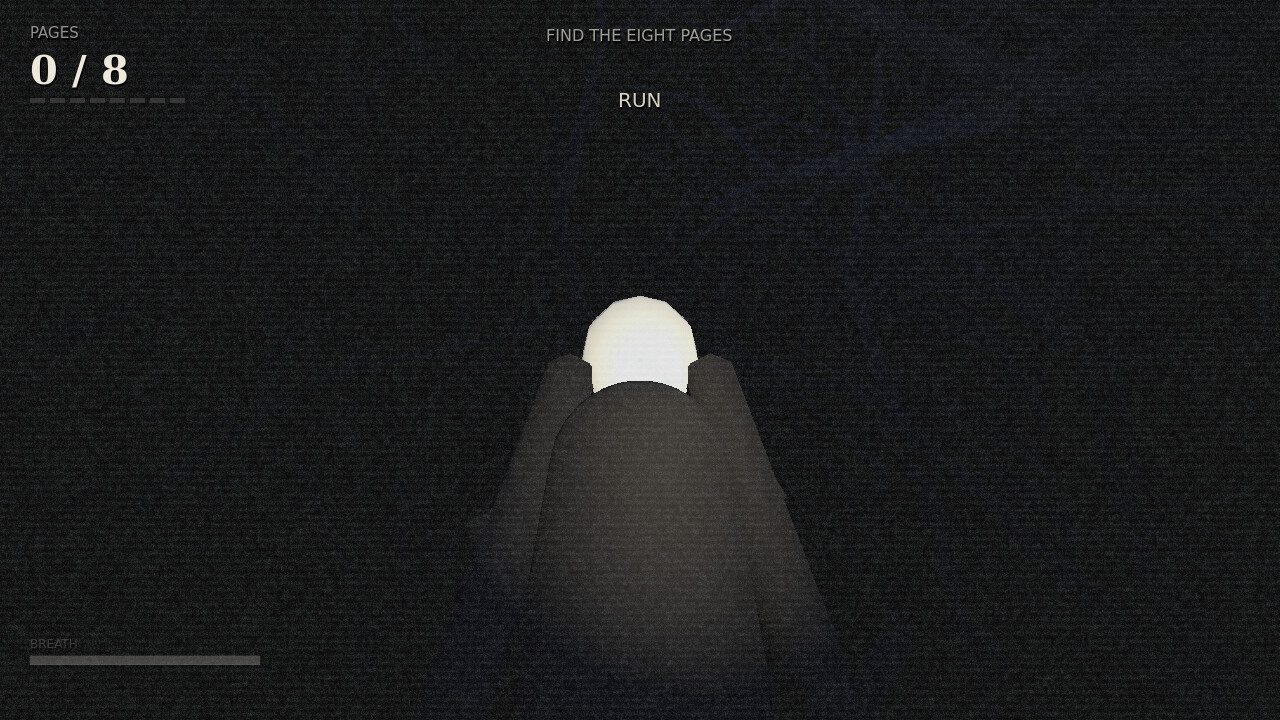
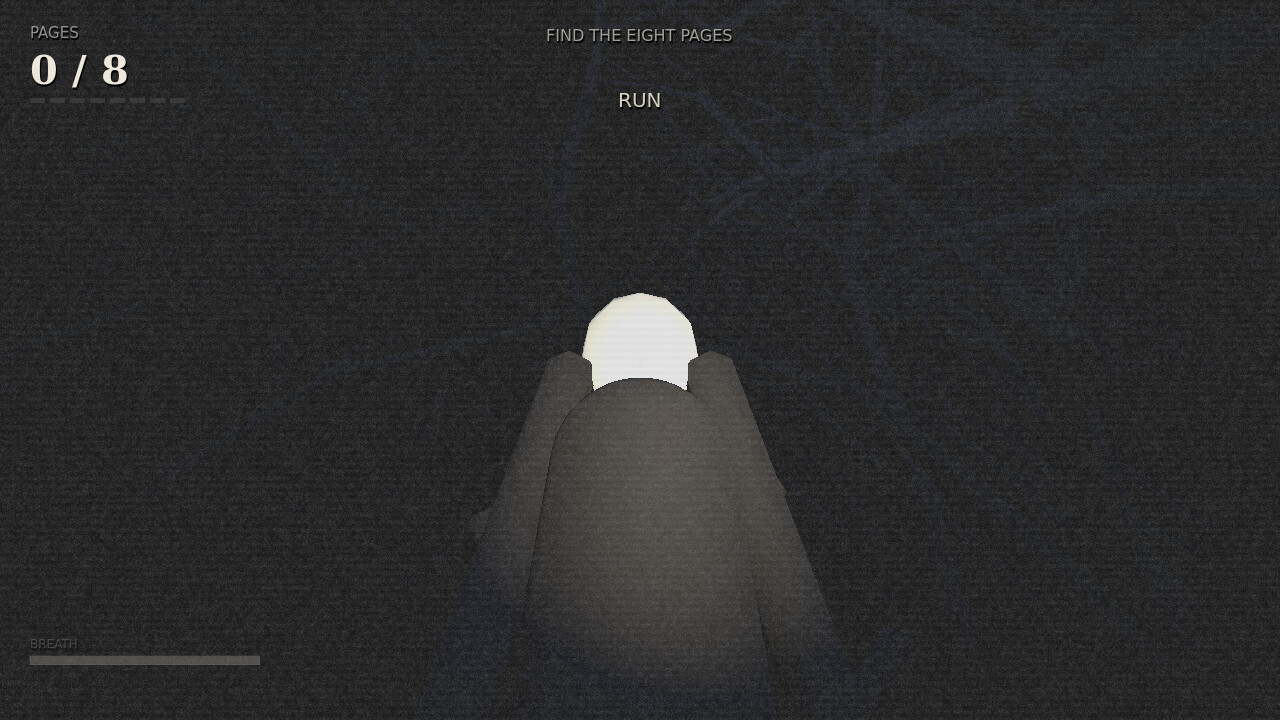
screenshots: re-render the whole set (gate, fence, cloth page, concrete detail, mobile)

Changed region(s): [[0.0, 0.0, 1.0, 1.0]]

diff --git a/tools/gen_concrete.py b/tools/gen_concrete.py
@@ -210,20 +210,23 @@ def make_concrete(size=SIZE):
     micro = fbm(h, w, 5, 360, 0.50, seed=7106)
     fine = fbm(h, w, 7, 28, 0.55, seed=7107)
 
+    # Aggregate, not blotches. Real concrete varies mostly at the aggregate
+    # scale inside a 1.2 m tile; the low-frequency terms used to dominate and
+    # made the wall look like camouflage once the contrast was stretched.
     tone = (0.335
-            + (macro - 0.5) * 0.185
-            + (mid - 0.5) * 0.075
-            + (cement - 0.5) * 0.045
-            + (aggregate - 0.5) * 0.030
-            + (micro - 0.5) * 0.020)
+            + (macro - 0.5) * 0.080
+            + (mid - 0.5) * 0.045
+            + (cement - 0.5) * 0.038
+            + (aggregate - 0.5) * 0.080
+            + (micro - 0.5) * 0.045)
     albedo = np.stack([tone * 1.012, tone * 0.998, tone * 0.966], axis=-1)
     del tone
 
-    pale = curve(patch, 0.56, 0.83) * 0.42
+    pale = curve(patch, 0.56, 0.83) * 0.28
     albedo = overlay(albedo, (0.445, 0.438, 0.420), pale)
     del pale
 
-    grime = curve(1.0 - patch, 0.55, 0.84) * 0.34
+    grime = curve(1.0 - patch, 0.55, 0.84) * 0.24
     albedo = overlay(albedo, (0.255, 0.258, 0.255), grime)
     del grime
 
@@ -231,10 +234,10 @@ def make_concrete(size=SIZE):
     albedo = overlay(albedo, (0.375, 0.370, 0.356), mottle)
     del mottle
 
-    grains = curve(aggregate, 0.58, 0.79) * 0.30
+    grains = curve(aggregate, 0.58, 0.79) * 0.44
     albedo = overlay(albedo, (0.455, 0.448, 0.430), grains)
     del grains
-    dark_grains = curve(1.0 - aggregate, 0.63, 0.84) * 0.30
+    dark_grains = curve(1.0 - aggregate, 0.63, 0.84) * 0.44
     albedo = overlay(albedo, (0.252, 0.251, 0.246), dark_grains)
     del dark_grains
 
@@ -315,6 +318,10 @@ def make_concrete(size=SIZE):
     del moss_detail
     moss = np.clip(moss * 0.95, 0.0, 1.0)
     albedo = overlay(albedo, (0.205, 0.225, 0.175), moss * 0.85)
+
+    # A 2048 map with std 7.5/255 reads as flat grey paint once it is lit by a
+    # torch. Stretch the tonal range around the mean before the maps are saved.
+    albedo = np.clip(0.335 + (albedo - 0.335) * 1.85, 0.055, 0.80)
 
     crack_layer = _make_cracks(rng, size)
     cracks = _mask(crack_layer, 0.3)

diff --git a/README.md b/README.md
@@ -305,10 +305,12 @@ All of these were rendered by the game itself inside headless sway:
 | | |
 |---|---|
 | ![title](screenshots/00_title.jpg) | ![landmark](screenshots/01_page_1_walls.jpg) |
-| ![silo](screenshots/03_page_3_silo.jpg) | ![apparition](screenshots/09_slender_apparition.jpg) |
-| ![note](screenshots/12_note.jpg) | ![touch](screenshots/13_touch_ui.jpg) |
+| ![silo](screenshots/08_page_8_silo.jpg) | ![apparition](screenshots/12_slender_apparition.jpg) |
+| ![fence](screenshots/17_gate_road.jpg) | ![fence line](screenshots/19_fence_line.jpg) |
+| ![page cloth](screenshots/10_page_cloth.jpg) | ![concrete](screenshots/11_concrete_detail.jpg) |
+| ![note](screenshots/15_note.jpg) | ![touch](screenshots/16_touch_ui.jpg) |
 | ![pause](screenshots/00_pause_menu.jpg) | ![death](screenshots/02_death_screen.jpg) |
-| ![win](screenshots/01_win_screen.jpg) | ![grain](screenshots/10_slender_close.jpg) |
+| ![win](screenshots/01_win_screen.jpg) | ![close](screenshots/13_slender_close.jpg) |
 
 Portrait phone / web build: `screenshots/mobile_web_portrait.jpg`,
 touch-UI tour at phone resolution: `screenshots/mobile/`,
